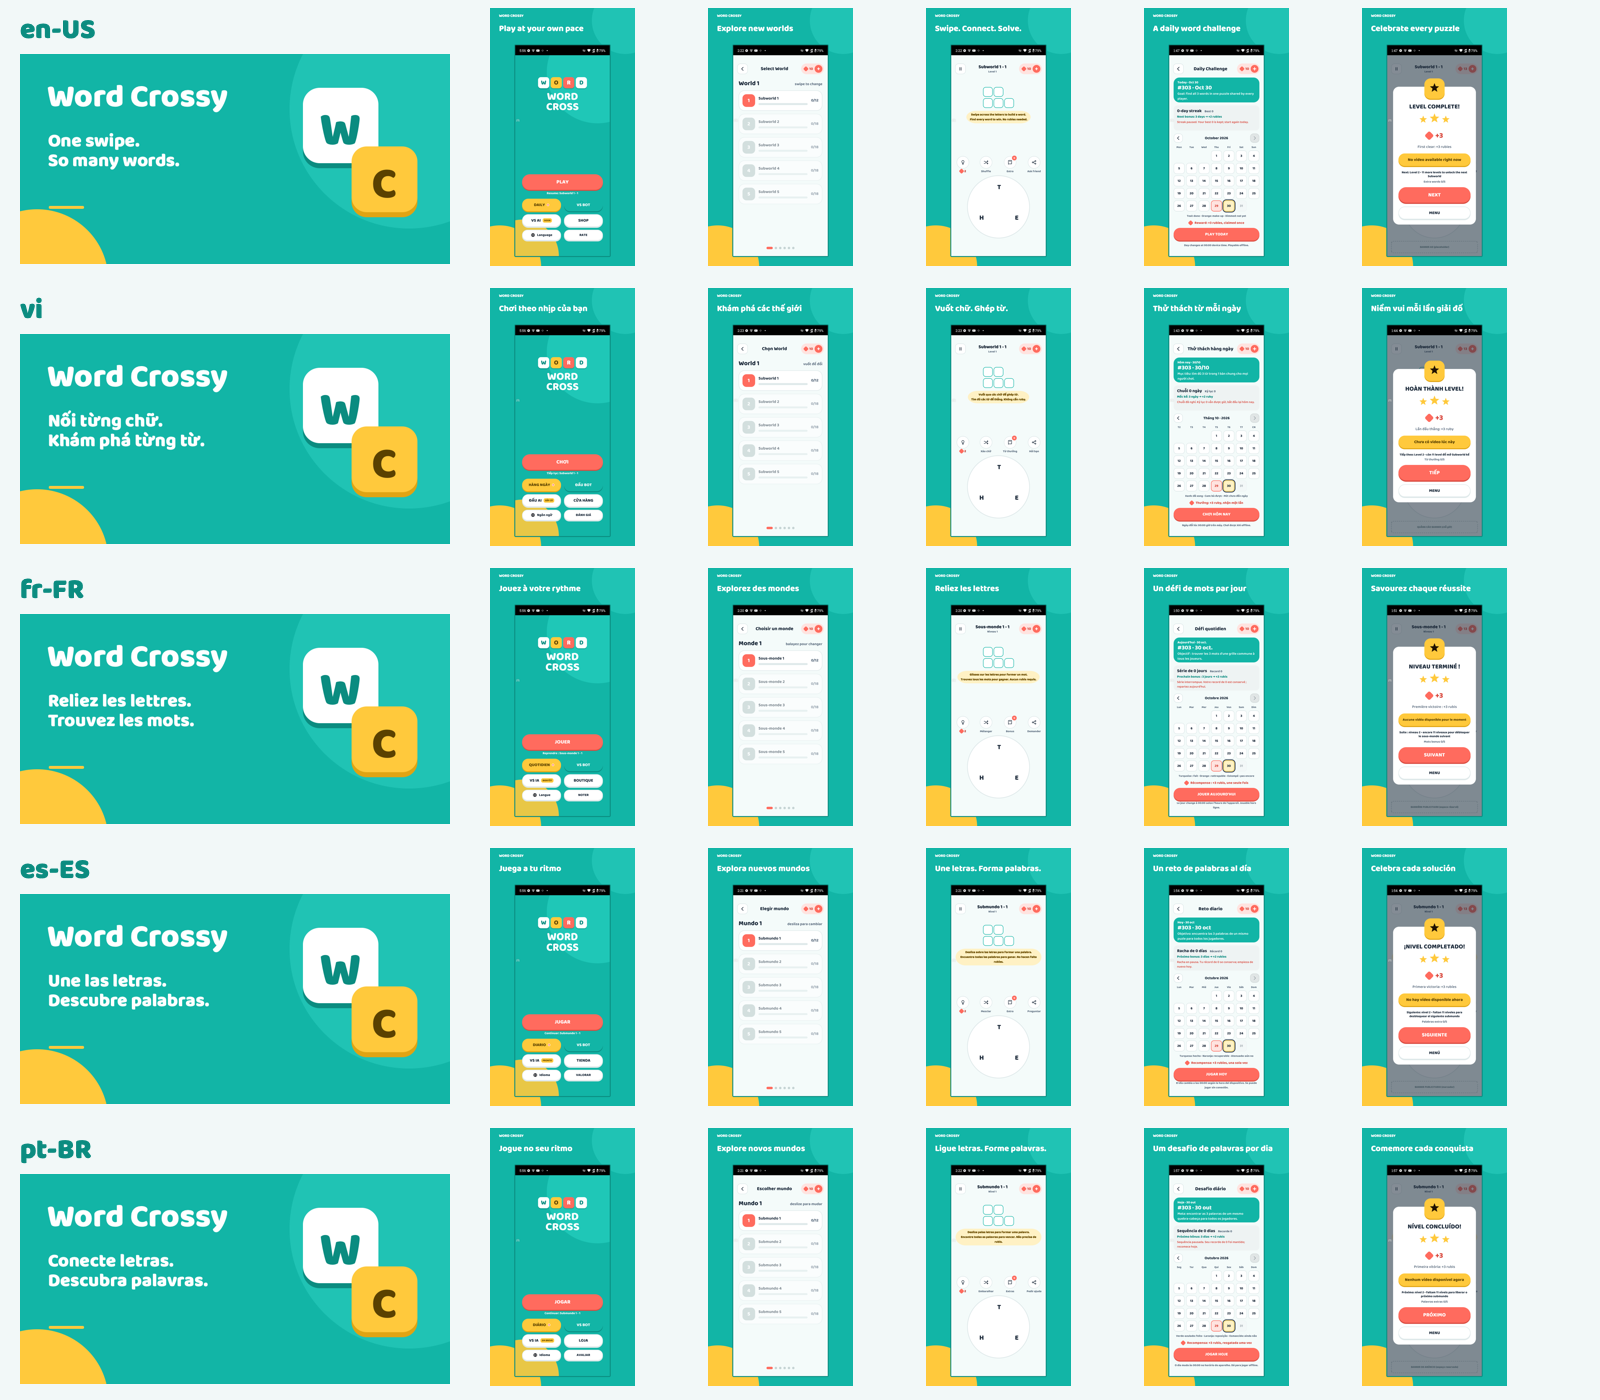
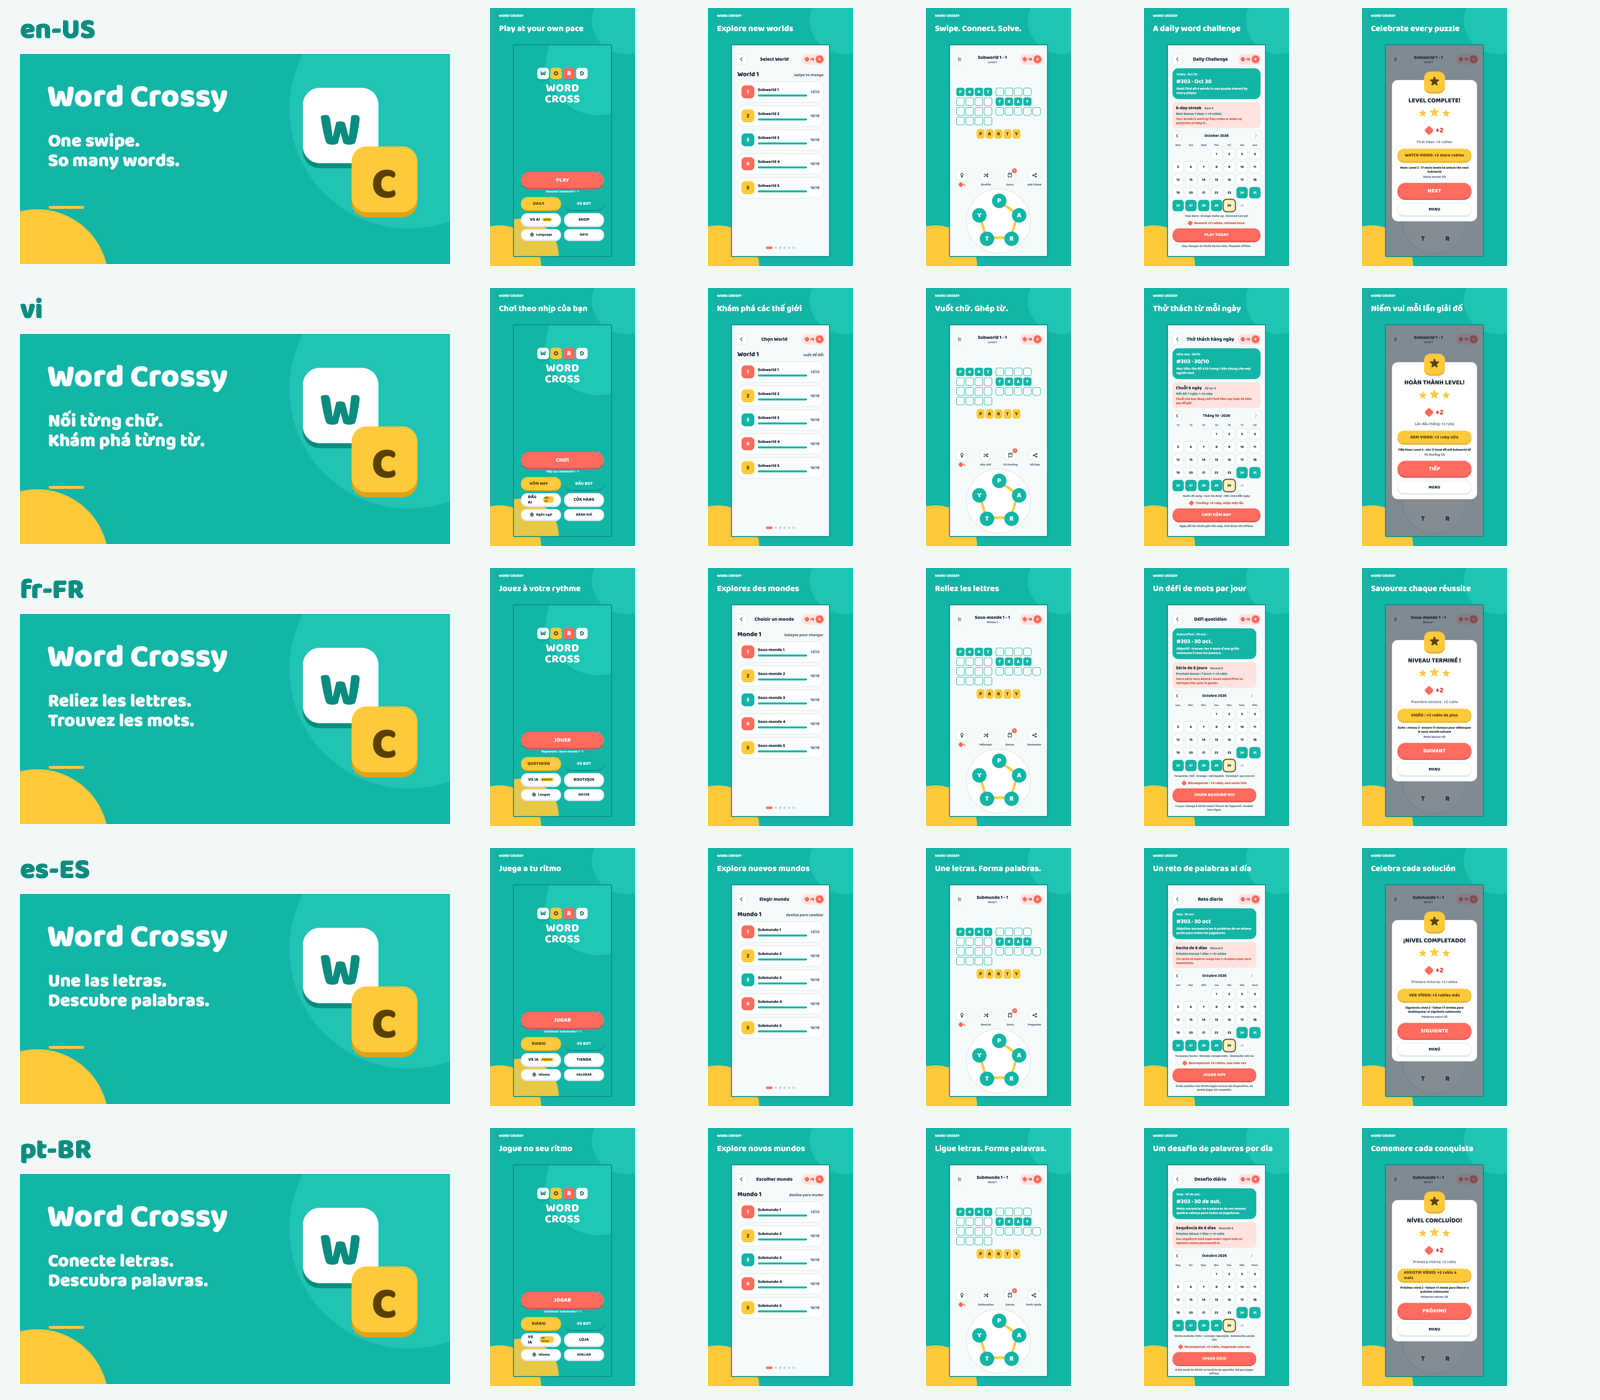
art: render localized Google Play screenshots from approved design

diff --git a/design/store-listing/render-design.swift b/design/store-listing/render-design.swift
@@ -1,0 +1,131 @@
+// CLI renderer of the existing HTML design using WebKit, not Chrome or a device.
+import AppKit
+import WebKit
+import CoreText
+import ImageIO
+import UniformTypeIdentifiers
+let root = URL(fileURLWithPath: FileManager.default.currentDirectoryPath)
+let target = root.appendingPathComponent("design/store-listing")
+let base = "http://127.0.0.1:18670"
+let space = CGColorSpace(name: CGColorSpace.sRGB)!
+let font = CGFont(CGDataProvider(url:root.appendingPathComponent("Assets/WordCross/Fonts/Baloo2/static/Baloo2-ExtraBold.ttf") as CFURL)!)!
+struct Locale {
+ let folder:String; let lang:String; let captions:[String]
+}
+let locales = [
+ Locale(folder:"en-US",lang:"en",captions:["Play at your own pace","Explore new worlds","Swipe. Connect. Solve.","A daily word challenge","Celebrate every puzzle"]),
+ Locale(folder:"vi",lang:"vi",captions:["Chơi theo nhịp của bạn","Khám phá các thế giới","Vuốt chữ. Ghép từ.","Thử thách từ mỗi ngày","Niềm vui mỗi lần giải đố"]),
+ Locale(folder:"fr-FR",lang:"fr",captions:["Jouez à votre rythme","Explorez des mondes","Reliez les lettres","Un défi de mots par jour","Savourez chaque réussite"]),
+ Locale(folder:"es-ES",lang:"es",captions:["Juega a tu ritmo","Explora nuevos mundos","Une letras. Forma palabras.","Un reto de palabras al día","Celebra cada solución"]),
+ Locale(folder:"pt-BR",lang:"pt",captions:["Jogue no seu ritmo","Explore novos mundos","Ligue letras. Forme palavras.","Um desafio de palavras por dia","Comemore cada conquista"])
+]
+let screens=["home","select-world","game","daily","win"]
+let filenames=["home","worlds","gameplay","daily","win"]
+func ink(_ hex:String)->CGColor {
+ let n=UInt32(hex,radix:16)!
+ return CGColor(colorSpace:space,components:[CGFloat((n>>16)&255)/255,CGFloat((n>>8)&255)/255,CGFloat(n&255)/255,1])!
+}
+func canvas(_ w:Int,_ h:Int)->CGContext {
+ let c=CGContext(data:nil,width:w,height:h,bitsPerComponent:8,bytesPerRow:w*4,space:space,bitmapInfo:CGImageAlphaInfo.noneSkipLast.rawValue)!
+ c.translateBy(x:0,y:CGFloat(h));c.scaleBy(x:1,y:-1);return c
+}
+func box(_ c:CGContext,_ r:CGRect,_ color:String,_ radius:CGFloat=0) {
+ c.setFillColor(ink(color));c.addPath(CGPath(roundedRect:r,cornerWidth:radius,cornerHeight:radius,transform:nil));c.fillPath()
+}
+func ellipse(_ c:CGContext,_ r:CGRect,_ color:String){c.setFillColor(ink(color));c.fillEllipse(in:r)}
+func text(_ c:CGContext,_ s:String,_ r:CGRect,_ size:CGFloat,_ color:String){
+ let f=CTFontCreateWithGraphicsFont(font,size,nil,nil)
+ let attrs:[NSAttributedString.Key:Any]=[NSAttributedString.Key(kCTFontAttributeName as String):f]
+ let l=CTLineCreateWithAttributedString(NSAttributedString(string:s,attributes:attrs))
+ let width=CGFloat(CTLineGetTypographicBounds(l,nil,nil,nil))
+ let use=min(size,size*r.width/max(width,1))
+ let ff=CTFontCreateWithGraphicsFont(font,use,nil,nil)
+ let line=CTLineCreateWithAttributedString(NSAttributedString(string:s,attributes:[NSAttributedString.Key(kCTFontAttributeName as String):ff,NSAttributedString.Key(kCTForegroundColorAttributeName as String):ink(color)]))
+ c.saveGState();c.translateBy(x:r.minX,y:r.minY+use);c.scaleBy(x:1,y:-1);c.textPosition = .zero;CTLineDraw(line,c);c.restoreGState()
+}
+func draw(_ c:CGContext,_ img:CGImage,_ r:CGRect){c.saveGState();c.translateBy(x:r.minX,y:r.maxY);c.scaleBy(x:1,y:-1);c.interpolationQuality = .high;c.draw(img,in:CGRect(x:0,y:0,width:r.width,height:r.height));c.restoreGState()}
+func save(_ c:CGContext,_ url:URL){
+ let dest=CGImageDestinationCreateWithURL(url as CFURL,UTType.png.identifier as CFString,1,nil)!
+ CGImageDestinationAddImage(dest,c.makeImage()!,nil);precondition(CGImageDestinationFinalize(dest))
+}
+func load(_ url:URL)->CGImage{CGImageSourceCreateImageAtIndex(CGImageSourceCreateWithURL(url as CFURL,nil)!,0,nil)!}
+func compose(_ image:CGImage,_ row:Int,_ col:Int){
+ let c=canvas(1080,1920)
+ box(c,CGRect(x:0,y:0,width:1080,height:1920),"12b5a6")
+ ellipse(c,CGRect(x:760,y:-160,width:500,height:500),"20c3b4")
+ ellipse(c,CGRect(x:-240,y:1620,width:620,height:620),"ffc93c")
+ text(c,"WORD CROSSY",CGRect(x:64,y:35,width:900,height:40),28,"ffffff")
+ text(c,locales[row].captions[col],CGRect(x:64,y:105,width:952,height:100),64,"ffffff")
+ let h:CGFloat=1574,w=h*390/844,x=(1080-w)/2
+ box(c,CGRect(x:x-7,y:268,width:w+14,height:h+14),"0b8c80",10)
+ draw(c,image,CGRect(x:x,y:275,width:w,height:h))
+ save(c,target.appendingPathComponent("\(locales[row].folder)/screenshot-0\(col+1)-\(filenames[col]).png"))
+}
+func finish(){
+ let c=canvas(1600,1400);box(c,CGRect(x:0,y:0,width:1600,height:1400),"f2f8f8")
+ for (row,loc) in locales.enumerated(){
+  text(c,loc.folder,CGRect(x:20,y:CGFloat(row*280+10),width:250,height:40),28,"0b8c80")
+  draw(c,load(target.appendingPathComponent("\(loc.folder)/feature-graphic.png")),CGRect(x:20,y:CGFloat(row*280+54),width:430,height:210))
+  for i in 0..<5{draw(c,load(target.appendingPathComponent("\(loc.folder)/screenshot-0\(i+1)-\(filenames[i]).png")),CGRect(x:CGFloat(490+i*218),y:CGFloat(row*280+8),width:145,height:258))}
+ }
+ save(c,target.appendingPathComponent("preview-all-locales.png"))
+ print("Rendered 25 design-based store images, 1080x1920 RGB, and preview.")
+ fflush(stdout);exit(0)
+}
+class Renderer:NSObject,WKNavigationDelegate,WKScriptMessageHandler {
+ var index=0
+ var web:WKWebView!
+ var window:NSWindow!
+ func start(){
+  let config=WKWebViewConfiguration()
+  config.websiteDataStore = .nonPersistent()
+  config.userContentController.add(self,name:"ready")
+  config.preferences.javaScriptCanOpenWindowsAutomatically=false
+  web=WKWebView(frame:NSRect(x:0,y:0,width:390,height:844),configuration:config)
+  web.navigationDelegate=self
+  window=NSWindow(contentRect:NSRect(x:-10000,y:0,width:390,height:844),styleMask:.borderless,backing:.buffered,defer:false)
+  window.contentView=web;window.orderFrontRegardless()
+  next()
+ }
+ func next(){
+  if index>=25{finish();return}
+  let row=index/5,col=index%5,loc=locales[row],screen=screens[col]
+  let file=root.appendingPathComponent("design/Ui/screens/\(screen)/index.html")
+  var html=String(data:FileManager.default.contents(atPath:file.path)!,encoding:.utf8)!
+  let css="""
+  @font-face{font-family:'StoreBaloo';src:url('\(base)/Assets/WordCross/Fonts/Baloo2/static/Baloo2-ExtraBold.ttf') format('truetype');font-weight:700 900}
+  @font-face{font-family:'StoreBaloo';src:url('\(base)/Assets/WordCross/Fonts/Baloo2/static/Baloo2-SemiBold.ttf') format('truetype');font-weight:400 600}
+  :root{--font:'StoreBaloo',system-ui,sans-serif}body{font-family:var(--font)!important}.tile{font-family:var(--font)!important}.demo-tag,.tagx,.demo-row{display:none!important}*{animation:none!important;transition:none!important}.phone{border-radius:0!important}.daily-hero>div{display:flex;flex-direction:column;gap:5px}body[data-page=daily] .scroll-body>.note:last-child{display:none!important}
+  """
+  html=html.replacingOccurrences(of:"</head>",with:"<style>\(css)</style></head>")
+  let setup="""
+  var S=WC.state;S.gameLang='en';S.rubies=18;S.ads.removed=true;S.level={w:1,s:0,l:0};S.sel={w:1,s:0};S.cleared={};for(var s=0;s<5;s++){for(var l=0;l<WC.subTotal(0,s);l++)S.cleared['0-'+s+'-'+l]=1}S.progress['1-0-0']={hints:{},found:\(col==4 ? "WC_LEVELS['1-0-0'].a.slice()" : "['part','tray']"),extras:[],order:'party'.split('')};S.daily.today='2026-10-30';S.daily.solved={};for(var d=24;d<=29;d++)S.daily.solved['2026-10-'+d]=1;S.daily.best=6;S.winCtx={kind:'level',key:'1-0-0',first:true,reward:2};
+  """
+  html=html.replacingOccurrences(of:"<script src=\"../../global/js/app.js\">",with:"<script>\(setup)</script><script src=\"../../global/js/app.js\">")
+  let end="""
+  <script>
+  if('\(screen)'==='game'){
+   var pts=[];document.querySelectorAll('.ltr').forEach(function(e){e.classList.add('sel');pts.push(parseFloat(e.style.left)+','+parseFloat(e.style.top))});document.querySelector('[data-line]').setAttribute('points',pts.join(' '));document.querySelector('[data-preview]').innerHTML='PARTY'.split('').map(function(x){return '<b>'+x+'</b>'}).join('');
+  }
+  document.fonts.ready.then(function(){window.webkit.messageHandlers.ready.postMessage({lang:document.documentElement.lang,screen:document.body.dataset.page,phone:document.querySelector('.phone').getBoundingClientRect().toJSON(),text:document.querySelector('.phone').innerText.slice(0,140)})});
+  </script>
+  """
+  html=html.replacingOccurrences(of:"</body>",with:end+"</body>")
+  let url=URL(string:"\(base)/design/Ui/screens/\(screen)/index.html?embed=1&lang=\(loc.lang)")!
+  web.loadHTMLString(html,baseURL:url)
+ }
+ func userContentController(_ userContentController:WKUserContentController,didReceive message:WKScriptMessage){
+  let row=index/5,col=index%5
+  guard let result=message.body as? [String:Any],let lang=result["lang"] as? String,lang==locales[row].lang else{print("Locale did not load: \(message.body)");exit(1)}
+  print("\(locales[row].folder)/\(screens[col]): \(result["text"] ?? "")");fflush(stdout)
+  let config=WKSnapshotConfiguration();config.rect=CGRect(x:0,y:0,width:390,height:844);config.snapshotWidth=1080;config.afterScreenUpdates=false
+  web.takeSnapshot(with:config){img,error in
+   guard error==nil,let img=img,let cg=img.cgImage(forProposedRect:nil,context:nil,hints:nil) else{print("Snapshot failed: \(String(describing:error))");exit(1)}
+   compose(cg,row,col);self.index+=1;self.next()
+  }
+ }
+ func webView(_ webView:WKWebView,didFail navigation:WKNavigation!,withError error:Error){print("Navigation failed: \(error.localizedDescription)");exit(1)}
+ func webView(_ webView:WKWebView,didFailProvisionalNavigation navigation:WKNavigation!,withError error:Error){print("Load failed: \(error.localizedDescription)");exit(1)}
+}
+let app=NSApplication.shared;app.setActivationPolicy(.prohibited)
+let renderer=Renderer();renderer.start();app.run()

diff --git a/design/store-listing/IMAGE-ASSETS.md b/design/store-listing/IMAGE-ASSETS.md
@@ -1,35 +1,34 @@
-# Image assets — 2026-10-30
+# Hình Google Play — Word Crossy — 2026-10-30
 
-Default: en-US. UI locales: en, vi, fr, es, pt; Store mappings fr-FR/es-ES/pt-BR.
+Ngôn ngữ mặc định: en-US. Đủ en-US, vi, fr-FR, es-ES, pt-BR.
 
-Feature graphics: 1024×500, opaque RGB PNG; native artwork derived from existing brand tiles, palette and Baloo 2. App icon: 512×512 from current 1024×1024 artwork, shared across locales. No AI-generated gameplay.
+## Nguồn và trạng thái
 
-**Screenshot layouts are DRAFTS, not ready to upload.** 1080×1920; each contains a full, unmodified runtime QA capture fitted proportionally, plus localized promotional caption. Source images include status bar/floating gamepad and some older UGUI/debug-preview states. They do not certify the latest TMP/release build. Replace capture panels with clean current-runtime screenshots in matching UI locale before upload. Never claim translated puzzle dictionaries from translated UI. Keep this source list; original QA captures remain in their existing location. No new device session/build/upload was run.
+Theo yêu cầu USER ngày 30/10: **dùng design làm screenshot, không chờ thiết bị; AAB chỉ build khi USER yêu cầu sau**.
 
-| Locale | Screen | Source |
+25 ảnh `screenshot-01-home.png` đến `screenshot-05-win.png` được render trực tiếp từ HTML tại `design/Ui/screens/` bằng WebKit qua Swift CLI, rồi ghép caption bản địa hóa. Đây là ảnh thiết kế, **không phải ảnh chụp runtime hay bằng chứng QA bản APK/AAB**. Không dùng Chrome screenshot, MCP hoặc thiết bị.
+
+| Thứ tự | File | Design nguồn |
 |---|---|---|
-| en-US | home | `Build/remote-r2-0.3/qa-shots/t129-final-home-en.png` |
-| en-US | worlds | `Build/remote-r2-0.3/qa-shots/l10n-final-14-selectworld-en.png` |
-| en-US | gameplay | `Build/remote-r2-0.3/qa-shots/l10n-final-17-main-en.png` |
-| en-US | daily | `Build/remote-r2-0.3/qa-shots/preview-l10n-after-daily-en-20261030-014705.png` |
-| en-US | win | `Build/remote-r2-0.3/qa-shots/preview-l10n-after-win-en-20261030-014730.png` |
-| vi | home | `Build/remote-r2-0.3/qa-shots/t129-final-home-vi.png` |
-| vi | worlds | `Build/remote-r2-0.3/qa-shots/l10n-final-14-selectworld-vi.png` |
-| vi | gameplay | `Build/remote-r2-0.3/qa-shots/l10n-final-17-main-vi.png` |
-| vi | daily | `Build/remote-r2-0.3/qa-shots/preview-l10n-after-daily-vi-20261030-014340.png` |
-| vi | win | `Build/remote-r2-0.3/qa-shots/preview-l10n-after-win-vi-20261030-014405.png` |
-| fr-FR | home | `Build/remote-r2-0.3/qa-shots/t129-final-home-fr.png` |
-| fr-FR | worlds | `Build/remote-r2-0.3/qa-shots/l10n-final-14-selectworld-fr.png` |
-| fr-FR | gameplay | `Build/remote-r2-0.3/qa-shots/l10n-final-17-main-fr.png` |
-| fr-FR | daily | `Build/remote-r2-0.3/qa-shots/preview-l10n-after-daily-fr-20261030-015028.png` |
-| fr-FR | win | `Build/remote-r2-0.3/qa-shots/preview-l10n-after-win-fr-20261030-015053.png` |
-| es-ES | home | `Build/remote-r2-0.3/qa-shots/t129-final-home-es.png` |
-| es-ES | worlds | `Build/remote-r2-0.3/qa-shots/l10n-final-14-selectworld-es.png` |
-| es-ES | gameplay | `Build/remote-r2-0.3/qa-shots/l10n-final-17-main-es.png` |
-| es-ES | daily | `Build/remote-r2-0.3/qa-shots/preview-l10n-after-daily-es-20261030-015351.png` |
-| es-ES | win | `Build/remote-r2-0.3/qa-shots/preview-l10n-after-win-es-20261030-015417.png` |
-| pt-BR | home | `Build/remote-r2-0.3/qa-shots/t129-final-home-pt.png` |
-| pt-BR | worlds | `Build/remote-r2-0.3/qa-shots/l10n-final-14-selectworld-pt.png` |
-| pt-BR | gameplay | `Build/remote-r2-0.3/qa-shots/l10n-final-17-main-pt.png` |
-| pt-BR | daily | `Build/remote-r2-0.3/qa-shots/preview-l10n-after-daily-pt-20261030-015717.png` |
-| pt-BR | win | `Build/remote-r2-0.3/qa-shots/preview-l10n-after-win-pt-20261030-015742.png` |
+| 01 | screenshot-01-home.png | design/Ui/screens/home/index.html |
+| 02 | screenshot-02-worlds.png | design/Ui/screens/select-world/index.html |
+| 03 | screenshot-03-gameplay.png | design/Ui/screens/game/index.html |
+| 04 | screenshot-04-daily.png | design/Ui/screens/daily/index.html |
+| 05 | screenshot-05-win.png | design/Ui/screens/win/index.html |
+
+Mỗi hàng có đủ 5 ngôn ngữ UI. Từ trong bàn chơi vẫn tiếng Anh; không quảng bá bộ câu đố đa ngôn ngữ.
+
+## Export
+
+- PNG RGB không alpha, 1080×1920 (9:16), mỗi file dưới 8 MB.
+- Panel design 390×844 CSS px; font Baloo 2 từ project, render lên ảnh bằng WebKit, nền/caption bằng CoreGraphics/CoreText.
+- Chỉ trong phiên export: ẩn nhãn DEMO và nút điều khiển prototype, dùng trạng thái đã tắt ads để không có banner placeholder; xếp các dòng hero Daily đúng khối. Không sửa HTML/CSS design gốc.
+- Dữ liệu minh họa có chủ đích: 18 ruby; World 1 đã hoàn thành; bàn PARTY từ level thật `1-0-0` (đã tìm PART/TRAY và đang nối PARTY); Daily ngày 30/10/2026 với chuỗi 6 ngày; Win +2 ruby. Không dùng dữ liệu người chơi/thiết bị.
+- Không quảng bá Bot/AI như tính năng đã hoạt động; Home giữ các nút đúng design nhưng caption không giới thiệu các chế độ này.
+- 25 ảnh QA nháp cũ đã bỏ để không upload nhầm. Các capture QA nguồn ở Build giữ nguyên.
+
+5 `feature-graphic.png` (1024×500), `app-icon-512.png` (512×512) giữ nguyên bộ brand đã chuẩn bị. `preview-all-locales.png` là ảnh tổng hợp để duyệt, không upload làm screenshot.
+
+## Tái xuất bằng CLI macOS
+
+Chạy HTTP server ở root project: `python3 -m http.server 18670 --bind 127.0.0.1`, rồi `swift design/store-listing/render-design.swift` cũng từ root. Script dùng WKWebView không hiển thị trên màn hình, không thay đổi tab Chrome. Dừng server sau khi xong.

diff --git a/design/store-listing/README.md b/design/store-listing/README.md
@@ -59,4 +59,4 @@ Tên chỉ để người chơi nhận ra thể loại; không hứa thứ hạn
 
 ## Hình
 
-Xem `IMAGE-ASSETS.md`. Đã có 5 feature graphic (mỗi locale 1) và app icon 512. 25 `screenshot-draft-*` chỉ là bản nháp: phải thay bằng ảnh runtime sạch của build hiện tại trước khi upload. Chưa upload Console/AAB.
+Xem `IMAGE-ASSETS.md`. Có 5 feature graphic, icon dùng chung và **25 screenshot từ design** (5 ảnh mỗi ngôn ngữ), USER đã yêu cầu dùng thay ảnh runtime và không chờ thiết bị. Ảnh render từ design, không phải bằng chứng QA APK/AAB. `preview-all-locales.png` để duyệt cả bộ. Trạng thái đã upload/lưu trên Play xem `PLAY-CONTENT-CHECK-2026-10-30.md`.
